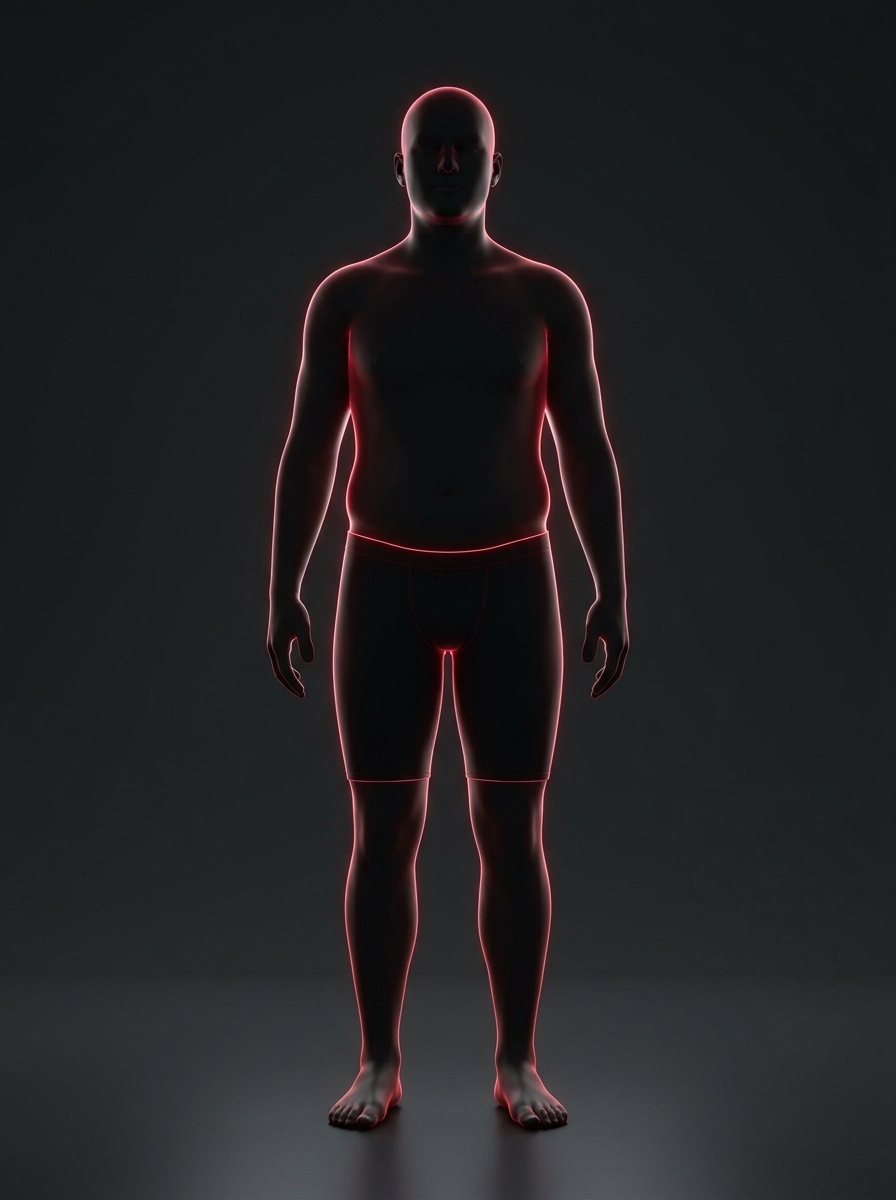
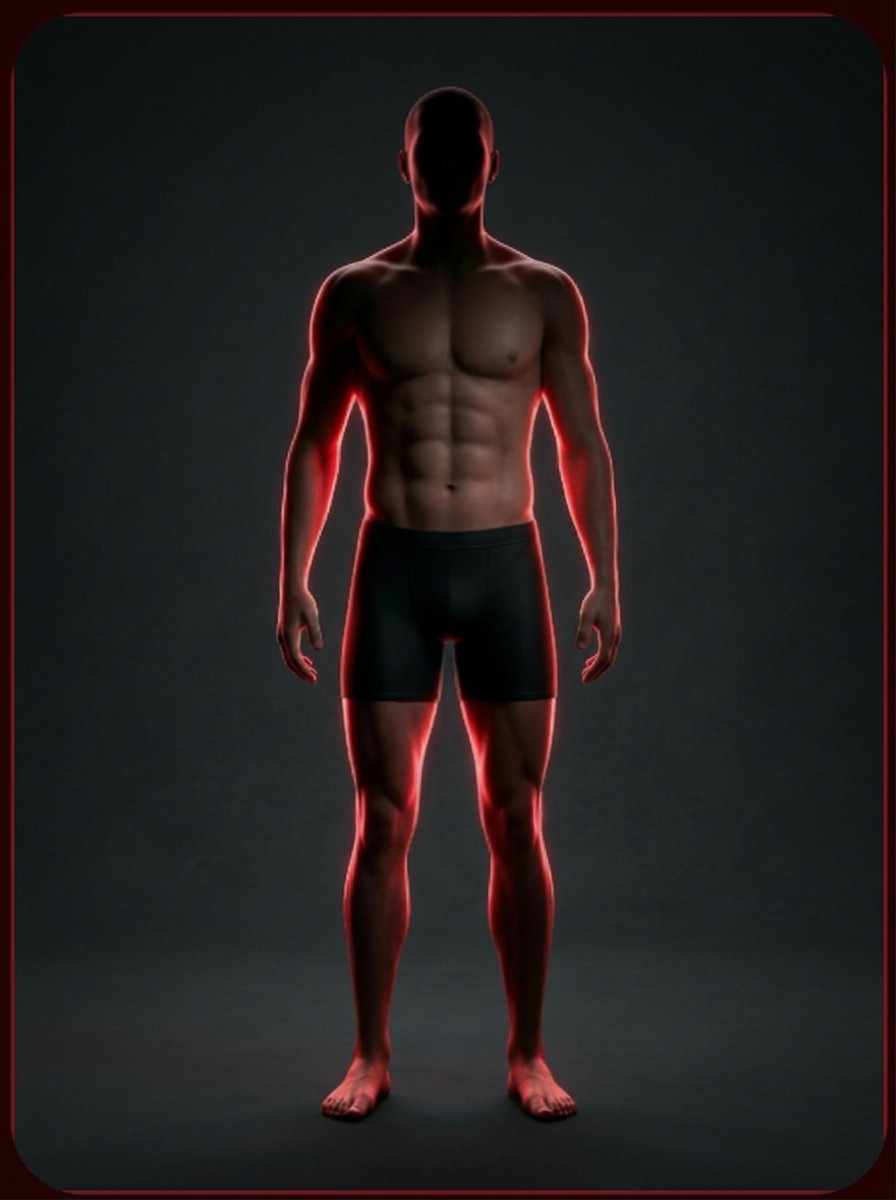
feat(assessment): unificar siluetas de grasa corporal con iluminacion muscular, contorno rojo y 16 niveles graduales

Changed region(s): [[0.0, 0.0617, 1.0, 1.0], [0.0938, 0.0, 0.9375, 0.0308]]

diff --git a/lib/features/assessment/models/assessment_rules.dart b/lib/features/assessment/models/assessment_rules.dart
@@ -31,16 +31,22 @@ String visualFatRange(double estimate) =>
 String bodyFatAssetPath(String gender, double estimate) {
   final isFemale = gender.toLowerCase().trim() == 'mujer';
   if (isFemale) {
-    if (estimate <= 20) return 'assets/images/body_fat/female_14_20.jpg';
-    if (estimate <= 25) return 'assets/images/body_fat/female_21_25.jpg';
-    if (estimate <= 30) return 'assets/images/body_fat/female_26_30.jpg';
-    if (estimate <= 38) return 'assets/images/body_fat/female_31_38.jpg';
-    return 'assets/images/body_fat/female_39_plus.jpg';
+    if (estimate <= 17) return 'assets/images/body_fat/female_14_17.jpg';
+    if (estimate <= 21) return 'assets/images/body_fat/female_18_21.jpg';
+    if (estimate <= 25) return 'assets/images/body_fat/female_22_25.jpg';
+    if (estimate <= 29) return 'assets/images/body_fat/female_26_29.jpg';
+    if (estimate <= 34) return 'assets/images/body_fat/female_30_34.jpg';
+    if (estimate <= 39) return 'assets/images/body_fat/female_35_39.jpg';
+    if (estimate <= 45) return 'assets/images/body_fat/female_40_45.jpg';
+    return 'assets/images/body_fat/female_46_plus.jpg';
   } else {
-    if (estimate <= 14) return 'assets/images/body_fat/male_10_14.jpg';
-    if (estimate <= 19) return 'assets/images/body_fat/male_15_19.jpg';
+    if (estimate <= 11) return 'assets/images/body_fat/male_08_11.jpg';
+    if (estimate <= 15) return 'assets/images/body_fat/male_12_15.jpg';
+    if (estimate <= 19) return 'assets/images/body_fat/male_16_19.jpg';
     if (estimate <= 24) return 'assets/images/body_fat/male_20_24.jpg';
-    if (estimate <= 31) return 'assets/images/body_fat/male_25_31.jpg';
-    return 'assets/images/body_fat/male_32_plus.jpg';
+    if (estimate <= 29) return 'assets/images/body_fat/male_25_29.jpg';
+    if (estimate <= 34) return 'assets/images/body_fat/male_30_34.jpg';
+    if (estimate <= 40) return 'assets/images/body_fat/male_35_40.jpg';
+    return 'assets/images/body_fat/male_41_plus.jpg';
   }
 }
